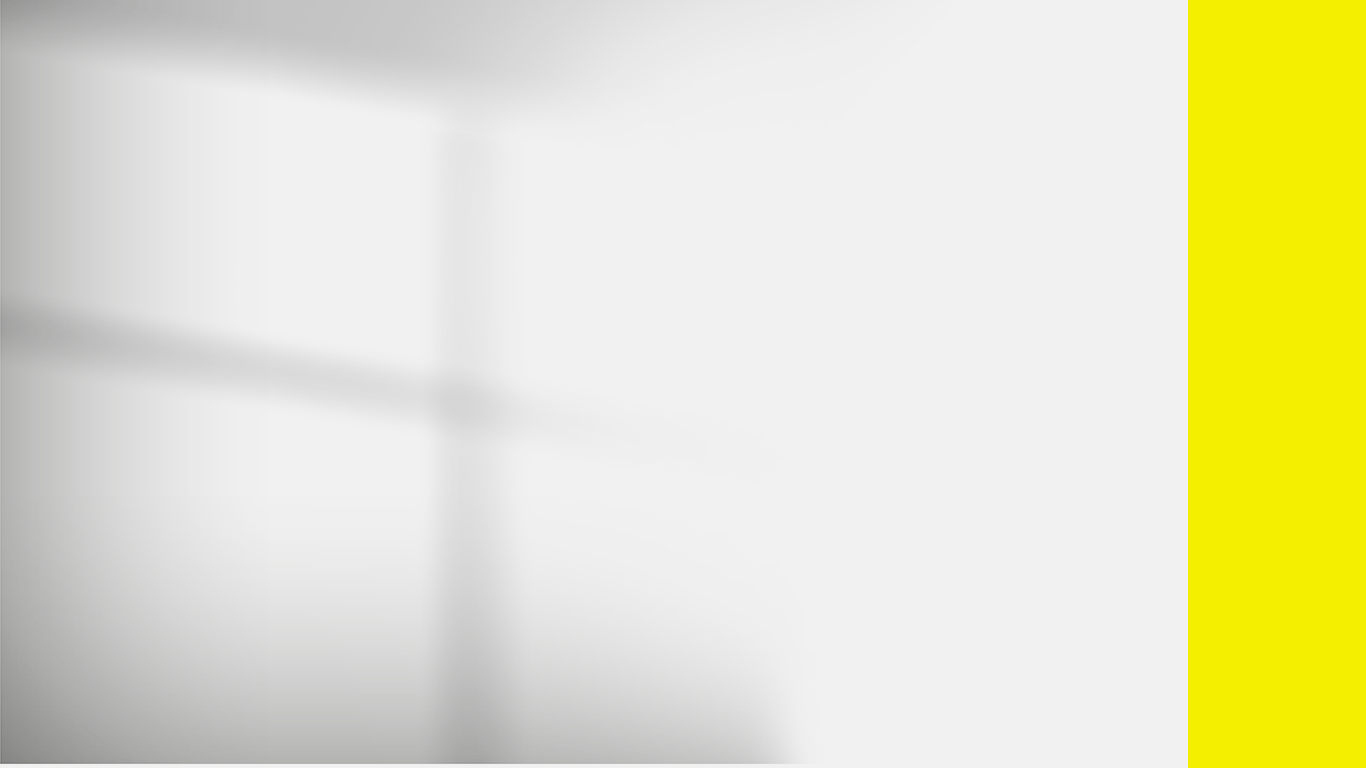
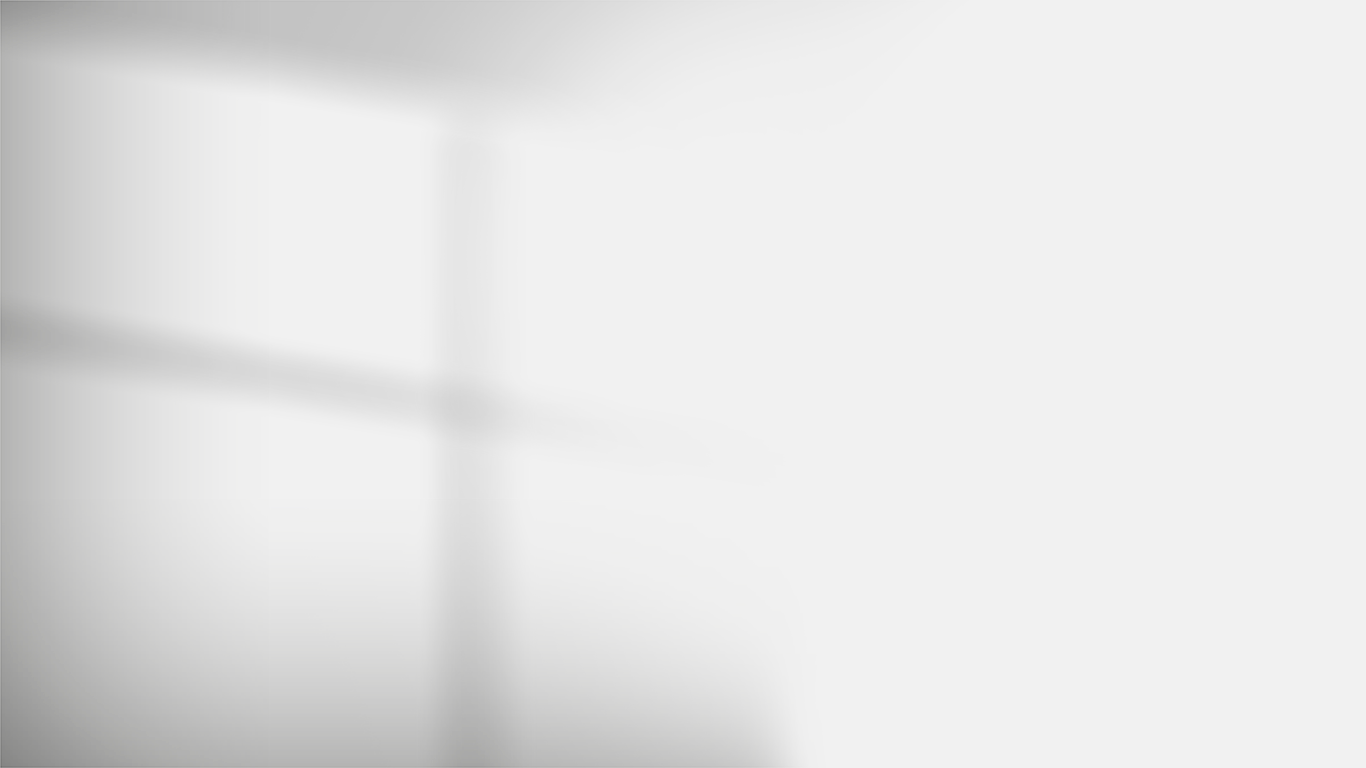
produção-segunda-seção

Changed region(s): [[0.8609, 0.0, 1.0, 1.0], [0.0, 0.9688, 0.5534, 1.0]]

diff --git a/src/app/page.module.scss b/src/app/page.module.scss
@@ -100,18 +100,123 @@
 }
 
 .secondaryPage {
-    display: flex;
-    flex-direction: column;
-    align-items: center;
-    justify-content: center;
-    height: 100vh; /* mesma altura que a primeira seção */
-    width: 100vw;
-    margin: 0;
-    background-image: url('/images/02.png'); // Segundo background
+    @import url('https://fonts.googleapis.com/css2?family=Nunito:wght@300;400;600&display=swap');
+    background-image: url('/images/02.png');
     background-size: cover;
     background-position: center;
     background-repeat: no-repeat;
-    overflow: hidden;
+    padding: 0;
+    height: 100vh;
+    background-color: #f0f0f0;
+    display: flex;
+    align-items: center;
+    justify-content: center;
+    flex-direction: column;
+    position: relative;
+    overflow: visible;
+}
+
+/* Barra amarela horizontal atrás do .paragrafo1 */
+.secondaryPage .paragrafo1::before {
+    content: '';
+    position: absolute;
+    top: -8;  /* Barra posicionada atrás do texto */
+    left: -5.5;
+    width: 103%;
+    height: 36px;  /* Espessura da barra */
+    background-color: yellow;
+    z-index: -1; /* Barra amarela ficará atrás do texto */
+}
+
+/* Classe .bolacha */
+.secondaryPage .paragrafo1 {
+    position: absolute;
+    top: 23.7%;
+    left: 46.6%;
+    transform: translate(0, -50%);
+    font-size: 1.2rem;
+    line-height: 1.2;
+    text-align: left;
+    font-weight: 560;
+    font-family: 'Gilroy', sans-serif; /* Aplica a fonte Poppins */ 
+    color: #000;
+    z-index: 1; /* Texto do .paragrafo1 ficará acima da barra amarela */
+    letter-spacing: 4.5px;
+}
+
+
+    .paragrafo2{
+        position: absolute; 
+        top: 31%; 
+        left: 45.0%; 
+        transform: translate(0, -50%); 
+        font-size: 3.5rem; 
+        line-height: 1.2;
+        text-align: left; 
+        font-weight: 800; 
+        font-family: 'Gilroy', sans-serif; /* Aplica a fonte Poppins */ 
+        letter-spacing: -3px;
+        color:#000
+        
+    }
+
+
+/* Barra amarela à direita */
+.secondaryPage::after {
+    content: ''; 
+    position: absolute; 
+    top: 0;
+    right: 0;
+    width: 170px;
+    height: 100vh;
+    background-color: yellow; 
+    z-index: 1; /* Garante que a barra fique atrás do conteúdo */
+}
+
+/* Contêiner de conteúdo */
+.contentWrapper {
+    display: flex;
+    align-items: center;
+    justify-content: space-around;
+    gap: 20px;
+    flex-direction: row;
+    width: 80%;
+    position: relative;
+    z-index: 2; /* Garantir que o conteúdo fique acima da barra amarela */
+}
+
+/* Ajustes na imagem */
+.imageContainer {
+    text-align: center;
+    width: 50%;
+}
+
+.familiaImage {
+    width: 170%;
+    max-width: 600px;
+    object-fit: cover;
+    transform: translateY(-8px) translateX(-150px);
+}
+
+/* Contêiner de vídeo */
+.videoContainer {
+    width: 70%;
+    display: flex;
+    justify-content: center;
+    border-radius: 15px;
+    padding: 0px;
+    box-sizing: border-box;
+    z-index: 2; /* Garantir que o vídeo esteja acima da barra amarela */
+    margin-right: 10px; /* Cria um espaço para evitar que o vídeo sobreponha a barra amarela */
+}
+
+
+/* Ajuste do vídeo */
+.videoContainer video {
+    transform: translateY(60px) translateX(10px); /* Ajusta a posição do vídeo */
+    width: 100%;
+    height: auto;
+    border-radius: 15px; /* Adiciona borda arredondada diretamente no vídeo */
 }
 
 .tertiaryPage {

diff --git a/src/app/page.tsx b/src/app/page.tsx
@@ -9,25 +9,31 @@ export default function Home() {
           <p className={styles.subtitle}>O LAR PERFEITO</p>
           <h1 className={styles.mainText}>existe</h1>
           <div className={styles.logoContainer}>
-            <img
-              src="/images/logo.png"
-              alt="Logo"
-              className={styles.logo}
-            />
+           
           </div>
         </div>
       </div>
-      <div className={styles.secondaryPage}> {/* Segunda seção com background */}
-        <p className={styles.subtitle}>Segunda Seção</p>
-        <h1 className={styles.mainText}>Outro Conteúdo</h1>
-        <div className={styles.logoContainer}>
-          <img
-            src="/images/logo.png"
-            alt="Logo"
-            className={styles.logo}
-          />
-        </div>
-      </div>
+
+  <div className={styles.secondaryPage}>
+  <div className={styles.contentWrapper}>
+  <h1 className={styles.paragrafo1}> SEU LAR DE</h1>
+  <h2 className={styles.paragrafo2}> ALTO PADRÃO</h2>
+    <div className={styles.imageContainer}>
+      <img
+        src="/images/familia.png"
+        alt="Familia"
+        className={styles.familiaImage}
+      />
+    </div>
+    <div className={styles.videoContainer}>
+      <video width="100%" height="auto" controls>
+        <source src="/videos/sample-video.mp4" type="video/mp4" />
+       
+      </video>
+    </div>
+  </div>
+</div>
+
       <div className={styles.tertiaryPage}> {/* Terceira seção com novo background */}
         <p className={styles.subtitle}>Terceira Seção</p>
         <h1 className={styles.mainText}>Mais Conteúdo</h1>
@@ -39,6 +45,7 @@ export default function Home() {
           />
         </div>
       </div>
+
       <div className={styles.quaternaryPage}> {/* Quarta seção com novo background */}
         <p className={styles.subtitle}>Quarta Seção</p>
         <h1 className={styles.mainText}>Último Conteúdo</h1>
@@ -50,6 +57,7 @@ export default function Home() {
           />
         </div>
       </div>
+
       <div className={styles.quinaryPage}> {/* Quinta seção com novo background */}
         <p className={styles.subtitle}>Quinta Seção</p>
         <h1 className={styles.mainText}>Conteúdo Adicional</h1>
